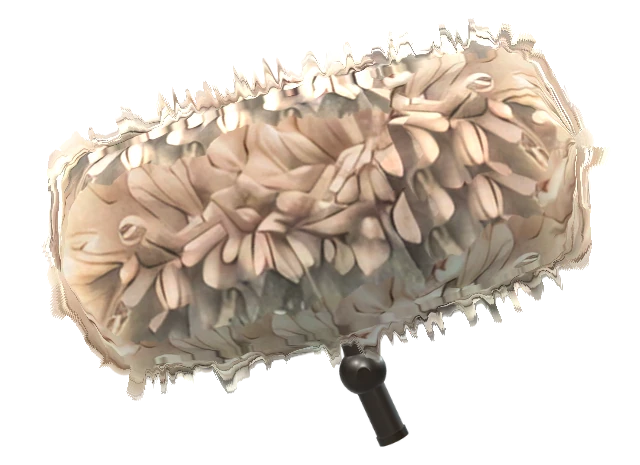
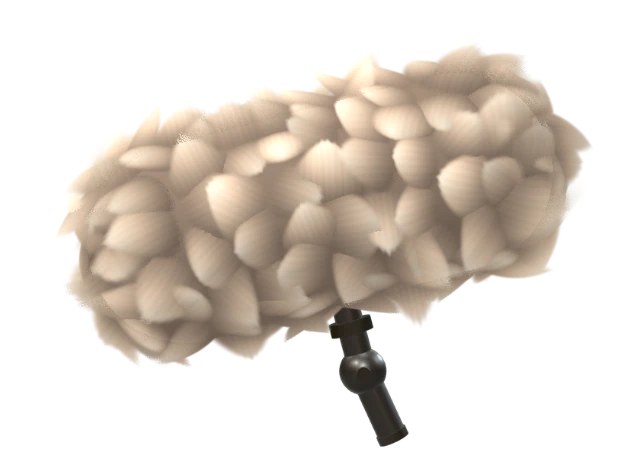
Boom microphone: volume fur instead of a flat picture of fur
- Every pixel's ray goes through the coat of fur (fur as a volume, after Kajiya & Kay): petal tufts grow
  out of the core, lean their own way, narrow to a rounded, frayed tip, hide one another; the roots sit in
  shade and each tuft is lit on its own side; the key light stays put
- The outline and both ends are the coat itself, so they turn with it; the tufts close round the turn
  (no seam, no repeat), the ends have their own patch (no crowding at the pole); the round N colours
- The unrolled fur (276 KB) and its light are no longer loaded; lighter canvas and fewer steps on touch screens

diff --git a/js/boom-roll.js b/js/boom-roll.js
@@ -1,13 +1,14 @@
-// The boom microphone (23.10.2026): the windshield of the round N sheet turning round its own long axis as ONE
-// object, without three.js (the round P way). Its fur is unwrapped round the body column by column and filled
-// all the way round from the picture's own fur (_dev/tools/mic_wrap.py: pieces joined by minimum-error cuts,
-// no period, nothing repeated in a row), so at every moment each point shows exactly one piece of the same fur.
-// Task 2: everything that is seen turns with it, the outline and the two ends too. The body is the solid core
-// of the fur; the fur standing out of it has its own length at every point of the turn (the unwrapped fur's
-// alpha), so the bumps of the outline and the tufts on the ends move with the fur. Only the light (the
-// picture's own soft shading, a multiplier on the colour) stays put, as light does. The windshield lies across
-// the tip of her pole (js/boom-frame.js tilt); the shock mount and the clamp (js/mic-roll-data.js `mount`,
-// rendered once from the round S model) never turn. One canvas the size of the box: the mount, then the fur.
+// The boom microphone (23.10.2026): the windshield of the round N sheet, across the tip of her pole, turning round
+// its own long axis as ONE object, without three.js. Volume fur (the owner: "the fur looks flat, like a texture"):
+// the windshield is a capsule (a core of the size and proportions of the round N windshield, js/mic-roll-data.js
+// `outer`) and every pixel's ray is marched through its coat of fur, the way fur is rendered as a volume
+// (Kajiya & Kay 1989): tufts grow out of the core, each leaning its own way and narrowing to a rounded tip (the
+// round N petals), they hide one another, the roots sit in their shade and every tuft is lit on its own side.
+// The tufts are laid on the core in cells that close round the turn, so the coat has no seam and no repeat; the
+// outline and both ends are the coat itself and turn with it. The light (a key from the upper left, as on the
+// team) stays put. Colours: the round N windshield's own. The shock mount and the clamp (`mount`, rendered once
+// from the round S model) never turn. One canvas the size of the box (js/boom-frame.js): the mount, then the fur.
+// (The flat version, a picture of the fur rolled round the body, is kept in _dev/design/retired-r/.)
 import { MIC_ROLL } from './mic-roll-data.js';
 
 const VERT = `
@@ -18,80 +19,117 @@ void main() { vUv = vec2(aPos.x * .5 + .5, .5 - aPos.y * .5); gl_Position = vec4
 const FRAG = `
 precision highp float;
 varying vec2 vUv;
-uniform sampler2D uWrap, uShade, uProfile, uMount;
+uniform sampler2D uMount;
 uniform float uRoll;                 // radians
 uniform vec2 uMid, uDir;             // the windshield's middle on the box (fractions), its axis on the screen (cos, sin)
-uniform float uLen, uBoxAspect, uStillAspect, uRows, uLmax, uAA;
+uniform float uBoxAspect;
+uniform float uA, uR, uF;            // the core: half the length of its straight part, its radius; the coat's depth
+uniform float uCell, uNC;            // a tuft's cell along the axis (box widths), cells round the turn
+uniform float uLean, uAA, uSteps;
+uniform vec3 uLight;                 // the key light in the windshield's own frame
 const float PI = 3.14159265;
-const float RIM = 1.2532;           // asin(.95): the colour of the very edge of the body, not its squeezed last rows
-// the core of the body at s (0..1 along it): its centre line and radius, as fractions of the picture's height
-vec2 core(float s) {
-  vec4 p = texture2D(uProfile, vec2(clamp(s, 0., 1.), .5));
-  return vec2(p.r * 65280. + p.g * 255., p.b * 65280. + p.a * 255.) / 65535.;
+const int STEPS = 30;
+
+float hash(vec2 p) { return fract(sin(dot(p, vec2(127.1, 311.7))) * 43758.5453); }
+vec2 hash2(vec2 p) { return vec2(hash(p), hash(p + 19.19)); }
+
+// the tufts round a point of the coat: uv on the core in cells, h the height in the coat (0 root .. 1); wrap: the
+// cells round the turn (0: a flat patch, the ends); returns the coverage and the nearest tuft's own height (0..1 of
+// its length); side: where on the tuft (its radii), tint
+vec2 tufts(vec2 uv, float h, float wrap, vec2 seed, out vec2 side, out float tint) {
+  vec2 c0 = floor(uv);
+  float best = 0., bh = 0.; side = vec2(0.); tint = 1.;
+  for (int i = -1; i <= 1; i++)
+  for (int j = -1; j <= 1; j++) {
+    vec2 cell = c0 + vec2(float(i), float(j));
+    vec2 id = (wrap > 0. ? vec2(cell.x, mod(cell.y, wrap)) : cell) + seed;   // the side's cells close round the turn
+    vec2 r = hash2(id), q = hash2(id + 7.3);
+    float len = .5 + .5 * q.x;                            // its length, of the coat's depth
+    if (h > len) continue;
+    float t = h / len;
+    float a = r.x * 6.2831853;
+    vec2 lean = vec2(cos(a), sin(a)) * uLean * (.6 + .4 * q.y);
+    vec2 axis = cell + .25 + .5 * hash2(id + 3.1) + lean * t;      // a tuft lies over as it rises
+    vec2 d = uv - axis;
+    // a petal: wide across its lean, thin along it, narrowing to a rounded tip
+    vec2 ld = normalize(lean + 1e-4);
+    vec2 e = vec2(dot(d, ld) * 1.25, dot(d, vec2(-ld.y, ld.x)) * .7);
+    float rad = (.56 + .2 * r.y) * pow(max(0., 1. - t), .7);
+    // the fibres of a petal run along it: fine, uneven stripes; only its tip frays
+    float fib = (sin(e.y * 61. + r.y * 40.) + .6 * sin(e.y * 23. + q.y * 30.)) * .3 + .5;
+    float cov = smoothstep(rad, rad - .2, length(e) + .07 * fib * smoothstep(.55, 1., t));
+    cov *= .94 + .06 * fib;
+    if (cov > best) { best = cov; bh = t; side = d / max(rad, 1e-3); tint = (.93 + .12 * hash(id + 5.7)) * (.96 + .04 * fib); }
+  }
+  return vec2(best, bh);
 }
-// the fur at s and at the angle th of the body: its colour (divided by the light) and how far it stands out
-vec4 fur(float s, float th) {
-  float k = fract((th + PI) / (2. * PI));
-  return texture2D(uWrap, vec2(clamp(s, 0., 1.), (k * (uRows - 1.) + .5) / uRows));
-}
+
 void main() {
   vec4 mount = texture2D(uMount, vUv);
-  // box -> along the windshield (s, 0..1 of its length, front end at 1) and across it (t, 0..1 of its height)
+  // box -> the windshield's frame: x along its axis (front end +), y across (down +), z towards the viewer; box widths
   vec2 q = vec2(vUv.x - uMid.x, (vUv.y - uMid.y) / uBoxAspect);
-  vec2 st = vec2(.5 + dot(q, uDir) / uLen, .5 + dot(q, vec2(-uDir.y, uDir.x)) / (uLen * uStillAspect));
-  float wh = 1. / uStillAspect;                        // its length in heights
-  if (st.x < -.12 || st.x > 1.12 || st.y < -.12 || st.y > 1.12) { gl_FragColor = mount; return; }
-  vec2 cr = core(st.x);
-  float y = st.y - cr.x;                               // across the axis, + downwards
-  vec3 col; float a;
-  if (abs(y) < cr.y && st.x > 0. && st.x < 1.) {
-    col = fur(st.x, asin(clamp(y / cr.y, -.95, .95)) - uRoll).rgb;   // the body: the angle on it that is here now
-    a = 1.;
-  } else {
-    if (abs(y) - cr.y > uLmax * 1.05 && st.x > 0. && st.x < 1.) { gl_FragColor = mount; return; }
-    // out of the core: the fur of the nearest point of the core's outline (the tips of the body included)
-    // stands out by its own length; the outline is the core's, pushed out by the fur as it is there now
-    float sgn = y > 0. ? 1. : -1.;
-    float dn = 1e9, sn = st.x;
-    for (int i = -6; i <= 6; i++) {
-      float sk = st.x + float(i) * uLmax / wh / 6.;
-      if (sk < 0. || sk > 1.) continue;
-      vec2 ck = core(sk);
-      if (ck.y < .002) continue;                       // past the tips there is no core
-      float dx = (st.x - sk) * wh, dy = max(abs(st.y - ck.x) - ck.y, 0.);
-      float d = sqrt(dx * dx + dy * dy);
-      if (d < dn) { dn = d; sn = sk; }
+  float x = dot(q, uDir), y = dot(q, vec2(-uDir.y, uDir.x));
+  float dx = x - clamp(x, -uA, uA);
+  float r2 = dx * dx + y * y, Ro = uR + uF;
+  if (r2 > Ro * Ro) { gl_FragColor = mount; return; }
+  float zo = sqrt(Ro * Ro - r2);
+  bool core = r2 < uR * uR;
+  float ze = core ? sqrt(uR * uR - r2) : -zo;
+  float dz = (zo - ze) / uSteps;
+  float z = zo - dz * hash(gl_FragCoord.xy);             // dithered start: no rings
+  vec3 col = vec3(0.); float al = 0.;
+  vec3 root = vec3(.78, .67, .58), mid = vec3(.98, .86, .74), tip = vec3(1., .96, .89);
+  for (int k = 0; k < STEPS; k++) {
+    if (float(k) >= uSteps) break;
+    vec3 v = vec3(dx, y, z);
+    float d = length(v);
+    float h = (d - uR) / uF;
+    if (h >= 0. && h < 1.) {
+      vec3 n = v / d;
+      // where this point of the coat grows from on the core: along the axis, and round it (turning with the roll);
+      // on the rounded ends the tufts stand on the end's own flat patch (no crowding at the pole), the two blend
+      float u = clamp(x, -uA, uA) + n.x * uR;
+      float th = atan(n.y, n.z) - uRoll;
+      float ring = length(n.yz), wEnd = smoothstep(.35, .8, abs(n.x));
+      vec2 side, s2; float tint, t2;
+      vec2 t = tufts(vec2(u / uCell, th / (2. * PI) * uNC), h, uNC, vec2(0.), side, tint);
+      t.x *= 1. - smoothstep(.6, .95, abs(n.x));
+      if (wEnd > 0.) {
+        vec2 e = tufts(ring * uR / uCell * vec2(sin(th), cos(th)), h, 0., vec2(n.x > 0. ? 71. : -53., 17.), s2, t2);
+        e.x *= wEnd;
+        if (e.x > t.x) { t = e; side = s2; tint = t2; }
+      }
+      if (t.x > 0.) {
+        // the tuft's own roundness gives it a lit side and a shaded side; the roots sit in the coat's shade
+        vec3 tu = normalize(vec3(1., 0., 0.) - n * n.x + 1e-4);
+        vec3 tv = ring > 1e-3 ? vec3(0., n.z, -n.y) / ring : vec3(0., 1., 0.);
+        vec3 nn = normalize(n * (.75 + .5 * t.y) + (tu * side.x + tv * side.y) * .5);
+        float lit = .84 + .34 * max(dot(nn, uLight), 0.);
+        float ao = mix(.7, 1., smoothstep(0., .8, h));
+        vec3 c = (t.y < .5 ? mix(root, mid, t.y * 2.) : mix(mid, tip, t.y * 2. - 1.)) * tint * lit * ao;
+        float a = t.x * .9;
+        col += (1. - al) * a * c; al += (1. - al) * a;
+        if (al > .985) break;
+      }
     }
-    float s0 = sn;                                       // and finer round the nearest one (the rounded ends)
-    for (int i = -6; i <= 6; i++) {
-      float sk = s0 + float(i) * uLmax / wh / 36.;
-      if (sk < 0. || sk > 1.) continue;
-      vec2 ck = core(sk);
-      if (ck.y < .002) continue;                       // past the tips there is no core
-      float dx = (st.x - sk) * wh, dy = max(abs(st.y - ck.x) - ck.y, 0.);
-      float d = sqrt(dx * dx + dy * dy);
-      if (d < dn) { dn = d; sn = sk; }
-    }
-    vec4 f = fur(sn, sgn * PI * .5 - uRoll);
-    float L = max(f.a * uLmax, 1e-4), tip = clamp(dn / L, 0., 1.);
-    a = smoothstep(-uAA, uAA, L - dn) * (1. - .4 * smoothstep(.5, 1., tip));   // soft, see-through tips
-    if (a <= 0.) { gl_FragColor = mount; return; }
-    // along a tuft its colour runs on over the top of the body (the fur just behind the edge), so the tufts
-    // carry the fur's own pattern instead of one colour drawn out; a little lighter towards the tip
-    col = fur(sn, sgn * mix(RIM, PI * .5 + .4, tip) - uRoll).rgb * mix(1., 1.08, tip);
+    z -= dz;
   }
-  vec3 light = texture2D(uShade, clamp(st, 0., 1.)).rgb * 2.;
-  gl_FragColor = vec4(col * light * 2. * a, a) + mount * (1. - a);
+  if (core && al < .985) {                               // under the coat: the core, deep in shade
+    vec3 n = normalize(vec3(dx, y, ze));
+    col += (1. - al) * root * (.55 + .3 * max(dot(n, uLight), 0.));
+    al = 1.;
+  }
+  float edge = smoothstep(0., uAA * 1.5, Ro - sqrt(r2));   // a soft edge for the outermost tips
+  al *= edge; col *= edge;
+  gl_FragColor = vec4(col, al) + mount * (1. - al);
 }`;
 
-function texture(gl, unit, src, { premultiply = false, data = null, w = 0 } = {}) {
+function texture(gl, unit, src) {
   const t = gl.createTexture();
   gl.activeTexture(gl.TEXTURE0 + unit);
   gl.bindTexture(gl.TEXTURE_2D, t);
-  gl.pixelStorei(gl.UNPACK_PREMULTIPLY_ALPHA_WEBGL, premultiply);
-  gl.pixelStorei(gl.UNPACK_COLORSPACE_CONVERSION_WEBGL, premultiply ? gl.BROWSER_DEFAULT_WEBGL : gl.NONE);
-  if (data) gl.texImage2D(gl.TEXTURE_2D, 0, gl.RGBA, w, 1, 0, gl.RGBA, gl.UNSIGNED_BYTE, data);
-  else gl.texImage2D(gl.TEXTURE_2D, 0, gl.RGBA, gl.RGBA, gl.UNSIGNED_BYTE, src);
+  gl.pixelStorei(gl.UNPACK_PREMULTIPLY_ALPHA_WEBGL, true);
+  gl.texImage2D(gl.TEXTURE_2D, 0, gl.RGBA, gl.RGBA, gl.UNSIGNED_BYTE, src);
   gl.texParameteri(gl.TEXTURE_2D, gl.TEXTURE_MIN_FILTER, gl.LINEAR);
   gl.texParameteri(gl.TEXTURE_2D, gl.TEXTURE_MAG_FILTER, gl.LINEAR);
   gl.texParameteri(gl.TEXTURE_2D, gl.TEXTURE_WRAP_S, gl.CLAMP_TO_EDGE);
@@ -100,11 +138,14 @@ function texture(gl, unit, src, { premultiply = false, data = null, w = 0 } = {}
 }
 const load = (url) => new Promise((res, rej) => { const i = new Image(); i.decoding = 'async'; i.onload = () => res(i); i.onerror = rej; i.src = url; });
 
-export async function createBoomRoll(canvas, { base = 'assets/team/', aspect, tilt } = {}) {
+// the coat: its depth (of the windshield's outer radius), a tuft's cell (of the core's radius), how far tufts lean
+const COAT = { fur: 0.32, cell: 0.44, lean: 1.0 };
+
+export async function createBoomRoll(canvas, { base = 'assets/team/', aspect, tilt, coat = {} } = {}) {
   const gl = canvas.getContext('webgl', { premultipliedAlpha: true, alpha: true, antialias: false, preserveDrawingBuffer: true });
   if (!gl) throw new Error('no WebGL');
-  const D = MIC_ROLL;
-  const [wrap, shade, mount] = await Promise.all([D.wrap, D.shade, D.mount].map((f) => load(base + f)));
+  const D = MIC_ROLL, C = { ...COAT, ...coat };
+  const mount = await load(base + D.mount);
   const sh = (type, src) => {
     const s = gl.createShader(type); gl.shaderSource(s, src); gl.compileShader(s);
     if (!gl.getShaderParameter(s, gl.COMPILE_STATUS)) throw new Error(gl.getShaderInfoLog(s));
@@ -121,52 +162,55 @@ export async function createBoomRoll(canvas, { base = 'assets/team/', aspect, ti
   const aPos = gl.getAttribLocation(prog, 'aPos');
   gl.enableVertexAttribArray(aPos);
   gl.vertexAttribPointer(aPos, 2, gl.FLOAT, false, 0, 0);
-  texture(gl, 0, wrap);
-  texture(gl, 1, shade);
-  // the profile, 16 bits a value: centre line (r, g), radius of the core (b, a)
-  const prof = new Uint8Array(D.profile.length * 4);
-  D.profile.forEach(([c, r], i) => {
-    const C = Math.round(c * 65535), R = Math.round(r * 65535);
-    prof.set([C >> 8, C & 255, R >> 8, R & 255], i * 4);
-  });
-  texture(gl, 2, null, { data: prof, w: D.profile.length });
-  texture(gl, 3, mount, { premultiply: true });
+  texture(gl, 0, mount);
   const U = (n) => gl.getUniformLocation(prog, n);
-  ['uWrap', 'uShade', 'uProfile', 'uMount'].forEach((n, i) => gl.uniform1i(U(n), i));
+  gl.uniform1i(U('uMount'), 0);
   // the windshield's own angle on the screen (front end up to the right), apart from her pole's
   const deg = tilt === undefined ? D.place.axis : -tilt;
   const a = (deg * Math.PI) / 180;
+  const box = aspect || D.place.aspect;
+  // the capsule: the round N windshield's outer length and radius (box widths), its coat C.fur of the radius deep
+  const [len, rad] = D.place.outer;
+  const F = rad * C.fur, R = rad - F, A = Math.max(0, len / 2 - rad);
+  const cell = R * C.cell;
   gl.uniform2f(U('uMid'), D.place.mid[0], D.place.mid[1]);
   gl.uniform2f(U('uDir'), Math.cos(a), Math.sin(a));
-  gl.uniform1f(U('uLen'), D.place.length);
-  gl.uniform1f(U('uBoxAspect'), aspect || D.place.aspect);
-  gl.uniform1f(U('uStillAspect'), D.h / D.w);
-  gl.uniform1f(U('uRows'), wrap.height);
-  gl.uniform1f(U('uLmax'), D.lmax);
+  gl.uniform1f(U('uBoxAspect'), box);
+  gl.uniform1f(U('uA'), A); gl.uniform1f(U('uR'), R); gl.uniform1f(U('uF'), F);
+  gl.uniform1f(U('uCell'), cell);
+  gl.uniform1f(U('uNC'), Math.max(6, Math.round((2 * Math.PI * R) / cell)));
+  gl.uniform1f(U('uLean'), C.lean);
+  // the key light from the upper left and in front (screen: x right, y down, z to the viewer), in the windshield's frame
+  const L = [-0.5, -0.72, 0.48], ln = Math.hypot(...L);
+  const lx = L[0] / ln, ly = L[1] / ln;
+  gl.uniform3f(U('uLight'), lx * Math.cos(a) + ly * Math.sin(a), -lx * Math.sin(a) + ly * Math.cos(a), L[2] / ln);
   const uRoll = U('uRoll'), uAA = U('uAA');
+  const coarse = window.matchMedia?.('(pointer: coarse)').matches;
+  gl.uniform1f(U('uSteps'), coarse ? 20 : 30);
   gl.clearColor(0, 0, 0, 0);
+  // a point of the windshield's outline box ([0..1 along it, 0..1 across]) on the box (fractions), for checks
+  const project = ([sx, sy]) => {
+    const x = (sx - 0.5) * len, y = (sy - 0.5) * 2 * rad;
+    return [D.place.mid[0] + x * Math.cos(a) - y * Math.sin(a), D.place.mid[1] + (x * Math.sin(a) + y * Math.cos(a)) * box];
+  };
   const api = {
     axis: a,                                    // the long axis on the screen (radians, y down), for the hand
     radius: 40,                                 // the windshield's radius in CSS pixels, for the hand
+    project,
+    places: { top: [0.5, 0], bottom: [0.5, 1], front: [1, 0.5], back: [0, 0.5] },
     resize() {
-      const dpr = Math.min(window.devicePixelRatio || 1, 2);
+      // a touch screen (a phone, a tablet: a slower GPU) gets a lighter canvas and fewer steps through the coat
+      const dpr = Math.min(window.devicePixelRatio || 1, coarse ? 1.5 : 2);
       const w = Math.max(1, Math.round(canvas.clientWidth * dpr)), h = Math.max(1, Math.round(canvas.clientHeight * dpr));
       if (canvas.width !== w || canvas.height !== h) { canvas.width = w; canvas.height = h; }
       gl.viewport(0, 0, w, h);
-      gl.uniform1f(uAA, 1 / (w * D.place.length * (D.h / D.w)));   // one device pixel, in heights of the picture
-      api.radius = D.place.radius * canvas.clientWidth;
+      gl.uniform1f(uAA, 1 / w);                   // one device pixel, in box widths
+      api.radius = rad * canvas.clientWidth;
     },
     render(angle) {
       gl.clear(gl.COLOR_BUFFER_BIT);
       gl.uniform1f(uRoll, angle);
       gl.drawArrays(gl.TRIANGLE_STRIP, 0, 4);
-    },
-    // where a point of the straightened windshield ([0..1, 0..1]) is on the box (fractions), for checks
-    project([sx, sy]) {
-      const x = (sx - 0.5) * D.place.length, y = (sy - 0.5) * D.place.length * (D.h / D.w);
-      const bx = D.place.mid[0] + x * Math.cos(a) - y * Math.sin(a);
-      const by = D.place.mid[1] + (x * Math.sin(a) + y * Math.cos(a)) * (aspect || D.place.aspect);
-      return [bx, by];
     },
     dispose() { gl.getExtension('WEBGL_lose_context')?.loseContext(); },
   };

diff --git a/js/mic-roll-data.js b/js/mic-roll-data.js
@@ -1,4 +1,3 @@
-// Written by _dev/tools/mic_wrap.py (23.10.2026): the round N windshield, straightened, its fur unwrapped one full
-// turn round its axis (alpha: how far the fur stands out, up to lmax); place: where it sits on the boom box; profile
-// per column: centre line and the radius of the fur's core (fractions of height).
-export const MIC_ROLL = {"wrap": "mic-wrap.webp", "shade": "mic-shade.webp", "mount": "mic-mount.webp", "w": 708, "h": 384, "span": 55.0, "rows": 1094, "lmax": 0.15572, "place": {"mid": [0.5001, 0.4473], "axis": -15.0, "length": 0.9128, "radius": 0.2279, "aspect": 1.377}, "profile": [[0.48305, 0.0], [0.4828, 0.0], [0.48144, 0.0], [0.48015, 0.0], [0.48199, 0.0], [0.48114, 0.0], [0.47123, 0.0], [0.45992, 0.0], [0.4559, 0.0], [0.46309, 0.0], [0.47943, 0.0], [0.49203, 0.00164], [0.49319, 0.02755], [0.48975, 0.06467], [0.48812, 0.08432], [0.48857, 0.11752], [0.4901, 0.15563], [0.49081, 0.17912], [0.48901, 0.1918], [0.48663, 0.20907], [0.48586, 0.23858], [0.48612, 0.26129], [0.48669, 0.26974], [0.48768, 0.27627], [0.48955, 0.28434], [0.49254, 0.29599], [0.49548, 0.30924], [0.49645, 0.31497], [0.49532, 0.31706], [0.49352, 0.31901], [0.49227, 0.32162], [0.49176, 0.32701], [0.49172, 0.33319], [0.49194, 0.33617], [0.49222, 0.33841], [0.49248, 0.34011], [0.49273, 0.34162], [0.49297, 0.34311], [0.49321, 0.34368], [0.49344, 0.34488], [0.49368, 0.34641], [0.49391, 0.34682], [0.49414, 0.34794], [0.49437, 0.34964], [0.4946, 0.35022], [0.49482, 0.35045], [0.49505, 0.35184], [0.49527, 0.35327], [0.49549, 0.35396], [0.4957, 0.35518], [0.49592, 0.35644], [0.49614, 0.35681], [0.49635, 0.35719], [0.49656, 0.35885], [0.49677, 0.36], [0.49697, 0.3604], [0.49718, 0.36098], [0.49738, 0.36242], [0.49759, 0.36343], [0.49778, 0.36371], [0.49798, 0.36447], [0.49818, 0.36575], [0.49837, 0.36679], [0.49857, 0.36712], [0.49876, 0.36729], [0.49895, 0.36796], [0.49913, 0.36982], [0.49932, 0.37041], [0.4995, 0.37079], [0.49968, 0.37134], [0.49986, 0.37221], [0.50004, 0.3736], [0.50022, 0.37391], [0.50039, 0.3741], [0.50057, 0.37449], [0.50074, 0.37559], [0.5009, 0.37687], [0.50107, 0.37742], [0.50124, 0.37764], [0.5014, 0.37772], [0.50156, 0.37793], [0.50172, 0.37899], [0.50188, 0.38045], [0.50204, 0.38094], [0.50219, 0.38118], [0.50234, 0.3816], [0.5025, 0.38162], [0.50264, 0.38159], [0.50279, 0.3821], [0.50294, 0.38391], [0.50308, 0.38458], [0.50322, 0.38473], [0.50336, 0.38491], [0.5035, 0.38543], [0.50364, 0.38567], [0.50377, 0.38555], [0.5039, 0.38548], [0.50404, 0.38593], [0.50416, 0.38772], [0.50429, 0.38839], [0.50442, 0.38853], [0.50454, 0.38866], [0.50466, 0.38878], [0.50478, 0.38909], [0.5049, 0.38953], [0.50502, 0.38951], [0.50513, 0.38941], [0.50525, 0.38938], [0.50536, 0.38947], [0.50547, 0.3897], [0.50557, 0.39082], [0.50568, 0.39142], [0.50578, 0.39149], [0.50588, 0.39223], [0.50598, 0.39269], [0.50608, 0.3928], [0.50618, 0.3929], [0.50627, 0.39299], [0.50637, 0.39309], [0.50646, 0.39318], [0.50655, 0.39327], [0.50663, 0.39335], [0.50672, 0.39344], [0.5068, 0.39352], [0.50689, 0.3936], [0.50697, 0.39368], [0.50704, 0.39376], [0.50712, 0.39384], [0.5072, 0.39385], [0.50727, 0.39313], [0.50734, 0.39244], [0.50741, 0.39233], [0.50748, 0.39226], [0.50754, 0.3922], [0.50761, 0.39213], [0.50767, 0.39207], [0.50773, 0.39201], [0.50779, 0.39196], [0.50784, 0.39196], [0.5079, 0.39201], [0.50795, 0.39206], [0.508, 0.39212], [0.50805, 0.39216], [0.5081, 0.39219], [0.50814, 0.39195], [0.50819, 0.39158], [0.50823, 0.39151], [0.50827, 0.39142], [0.50831, 0.39071], [0.50835, 0.38992], [0.50838, 0.38989], [0.50841, 0.38992], [0.50844, 0.38983], [0.50847, 0.38908], [0.5085, 0.38865], [0.50853, 0.38861], [0.50855, 0.38858], [0.50857, 0.38834], [0.50859, 0.38766], [0.50861, 0.38746], [0.50863, 0.38666], [0.50864, 0.38594], [0.50866, 0.38588], [0.50867, 0.38583], [0.50868, 0.38537], [0.50868, 0.38484], [0.50869, 0.38379], [0.50869, 0.38325], [0.5087, 0.38322], [0.5087, 0.383], [0.5087, 0.38245], [0.50869, 0.3817], [0.50869, 0.38074], [0.50868, 0.38064], [0.50867, 0.38043], [0.50866, 0.37976], [0.50865, 0.3787], [0.50863, 0.37811], [0.50862, 0.378], [0.5086, 0.37739], [0.50858, 0.37683], [0.50856, 0.37584], [0.50854, 0.37545], [0.50851, 0.37473], [0.50848, 0.37414], [0.50846, 0.37327], [0.50843, 0.37266], [0.50839, 0.37181], [0.50836, 0.37142], [0.50832, 0.37049], [0.50829, 0.36928], [0.50825, 0.36891], [0.5082, 0.36839], [0.50816, 0.36691], [0.50812, 0.36621], [0.50807, 0.36602], [0.50802, 0.36474], [0.50797, 0.36352], [0.50792, 0.36327], [0.50786, 0.36187], [0.50781, 0.36077], [0.50775, 0.36068], [0.50769, 0.35974], [0.50763, 0.35841], [0.50757, 0.35815], [0.5075, 0.35738], [0.50744, 0.35606], [0.50737, 0.35533], [0.5073, 0.35452], [0.50722, 0.35329], [0.50715, 0.35234], [0.50707, 0.35167], [0.507, 0.35018], [0.50692, 0.34938], [0.50684, 0.34856], [0.50675, 0.34691], [0.50667, 0.34641], [0.50658, 0.34503], [0.50649, 0.34379], [0.5064, 0.34272], [0.5063, 0.3413], [0.50617, 0.3398], [0.50602, 0.33742], [0.50598, 0.33276], [0.50626, 0.32615], [0.50709, 0.32198], [0.5087, 0.3198], [0.51049, 0.31794], [0.51104, 0.31522], [0.50927, 0.30602], [0.5061, 0.29253], [0.5035, 0.2821], [0.50202, 0.27472], [0.50122, 0.26805], [0.50073, 0.25537], [0.5007, 0.22718], [0.50206, 0.20272], [0.50458, 0.18855], [0.50544, 0.17411], [0.50408, 0.14443], [0.50273, 0.10539], [0.50285, 0.0777], [0.50528, 0.05637], [0.50809, 0.01344], [0.50289, 0.00031], [0.48718, 0.0], [0.47298, 0.0], [0.4699, 0.0], [0.47709, 0.0], [0.48903, 0.0], [0.49616, 0.0], [0.49589, 0.0], [0.49717, 0.0], [0.50041, 0.0], [0.50184, 0.0], [0.50203, 0.0]]};
+// Written by _dev/tools/mic_wrap.py (23.10.2026): where the round N windshield sits on the boom box (place: its
+// middle and axis; outer: its length and radius, box widths) and the shock mount; js/boom-roll.js grows its fur.
+export const MIC_ROLL = {"mount": "mic-mount.webp", "place": {"mid": [0.5001, 0.4473], "axis": -15.0, "aspect": 1.377, "outer": [0.887, 0.2267]}};

diff --git a/index.html b/index.html
@@ -11,38 +11,38 @@
 <link rel="preconnect" href="https://fonts.gstatic.com" crossorigin>
 <link rel="stylesheet" href="https://fonts.googleapis.com/css2?family=Archivo:wdth,wght@62..125,100..900&family=Roboto+Flex:wdth,wght@25..151,100..1000&family=Montserrat:wght@600..900&display=swap">
 <script>try{if(localStorage.getItem("sfx-lang")==="uk"){document.documentElement.lang="uk";document.documentElement.classList.add("i18n-wait")}}catch(e){}</script>
-<link rel="stylesheet" href="css/style.css?v=202610231122">
+<link rel="stylesheet" href="css/style.css?v=202610231301">
 <link rel="preload" as="image" href="assets/system/scene-forest.webp" fetchpriority="high">
 <script type="importmap">
 {
   "imports": {
     "three": "https://cdn.jsdelivr.net/npm/three@0.170.0/build/three.module.min.js",
     "three/addons/": "https://cdn.jsdelivr.net/npm/three@0.170.0/examples/jsm/",
-    "./js/audio.js": "./js/audio.js?v=202610231122",
-    "./js/boom-frame.js": "./js/boom-frame.js?v=202610231122",
-    "./js/boom-roll-motion.js": "./js/boom-roll-motion.js?v=202610231122",
-    "./js/boom-roll.js": "./js/boom-roll.js?v=202610231122",
-    "./js/content.js": "./js/content.js?v=202610231122",
-    "./js/gift.js": "./js/gift.js?v=202610231122",
-    "./js/i18n-boot.js": "./js/i18n-boot.js?v=202610231122",
-    "./js/i18n-uk.js": "./js/i18n-uk.js?v=202610231122",
-    "./js/i18n.js": "./js/i18n.js?v=202610231122",
-    "./js/main.js": "./js/main.js?v=202610231122",
-    "./js/map.js": "./js/map.js?v=202610231122",
-    "./js/mic-roll-data.js": "./js/mic-roll-data.js?v=202610231122",
-    "./js/music/music.js": "./js/music/music.js?v=202610231122",
-    "./js/music/sound.js": "./js/music/sound.js?v=202610231122",
-    "./js/phone-speakers.js": "./js/phone-speakers.js?v=202610231122",
-    "./js/studio-anim.js": "./js/studio-anim.js?v=202610231122",
-    "./js/studio-console.js": "./js/studio-console.js?v=202610231122",
-    "./js/studio-foley.js": "./js/studio-foley.js?v=202610231122",
-    "./js/studio-piano.js": "./js/studio-piano.js?v=202610231122",
-    "./js/team-carousel.js": "./js/team-carousel.js?v=202610231122"
+    "./js/audio.js": "./js/audio.js?v=202610231301",
+    "./js/boom-frame.js": "./js/boom-frame.js?v=202610231301",
+    "./js/boom-roll-motion.js": "./js/boom-roll-motion.js?v=202610231301",
+    "./js/boom-roll.js": "./js/boom-roll.js?v=202610231301",
+    "./js/content.js": "./js/content.js?v=202610231301",
+    "./js/gift.js": "./js/gift.js?v=202610231301",
+    "./js/i18n-boot.js": "./js/i18n-boot.js?v=202610231301",
+    "./js/i18n-uk.js": "./js/i18n-uk.js?v=202610231301",
+    "./js/i18n.js": "./js/i18n.js?v=202610231301",
+    "./js/main.js": "./js/main.js?v=202610231301",
+    "./js/map.js": "./js/map.js?v=202610231301",
+    "./js/mic-roll-data.js": "./js/mic-roll-data.js?v=202610231301",
+    "./js/music/music.js": "./js/music/music.js?v=202610231301",
+    "./js/music/sound.js": "./js/music/sound.js?v=202610231301",
+    "./js/phone-speakers.js": "./js/phone-speakers.js?v=202610231301",
+    "./js/studio-anim.js": "./js/studio-anim.js?v=202610231301",
+    "./js/studio-console.js": "./js/studio-console.js?v=202610231301",
+    "./js/studio-foley.js": "./js/studio-foley.js?v=202610231301",
+    "./js/studio-piano.js": "./js/studio-piano.js?v=202610231301",
+    "./js/team-carousel.js": "./js/team-carousel.js?v=202610231301"
   }
 }
 </script>
-<script type="module" src="js/i18n-boot.js?v=202610231122"></script>
-<script type="module" src="js/main.js?v=202610231122"></script>
+<script type="module" src="js/i18n-boot.js?v=202610231301"></script>
+<script type="module" src="js/main.js?v=202610231301"></script>
 </head>
 <body>
 <a class="skip" href="#main">Skip to content</a>
